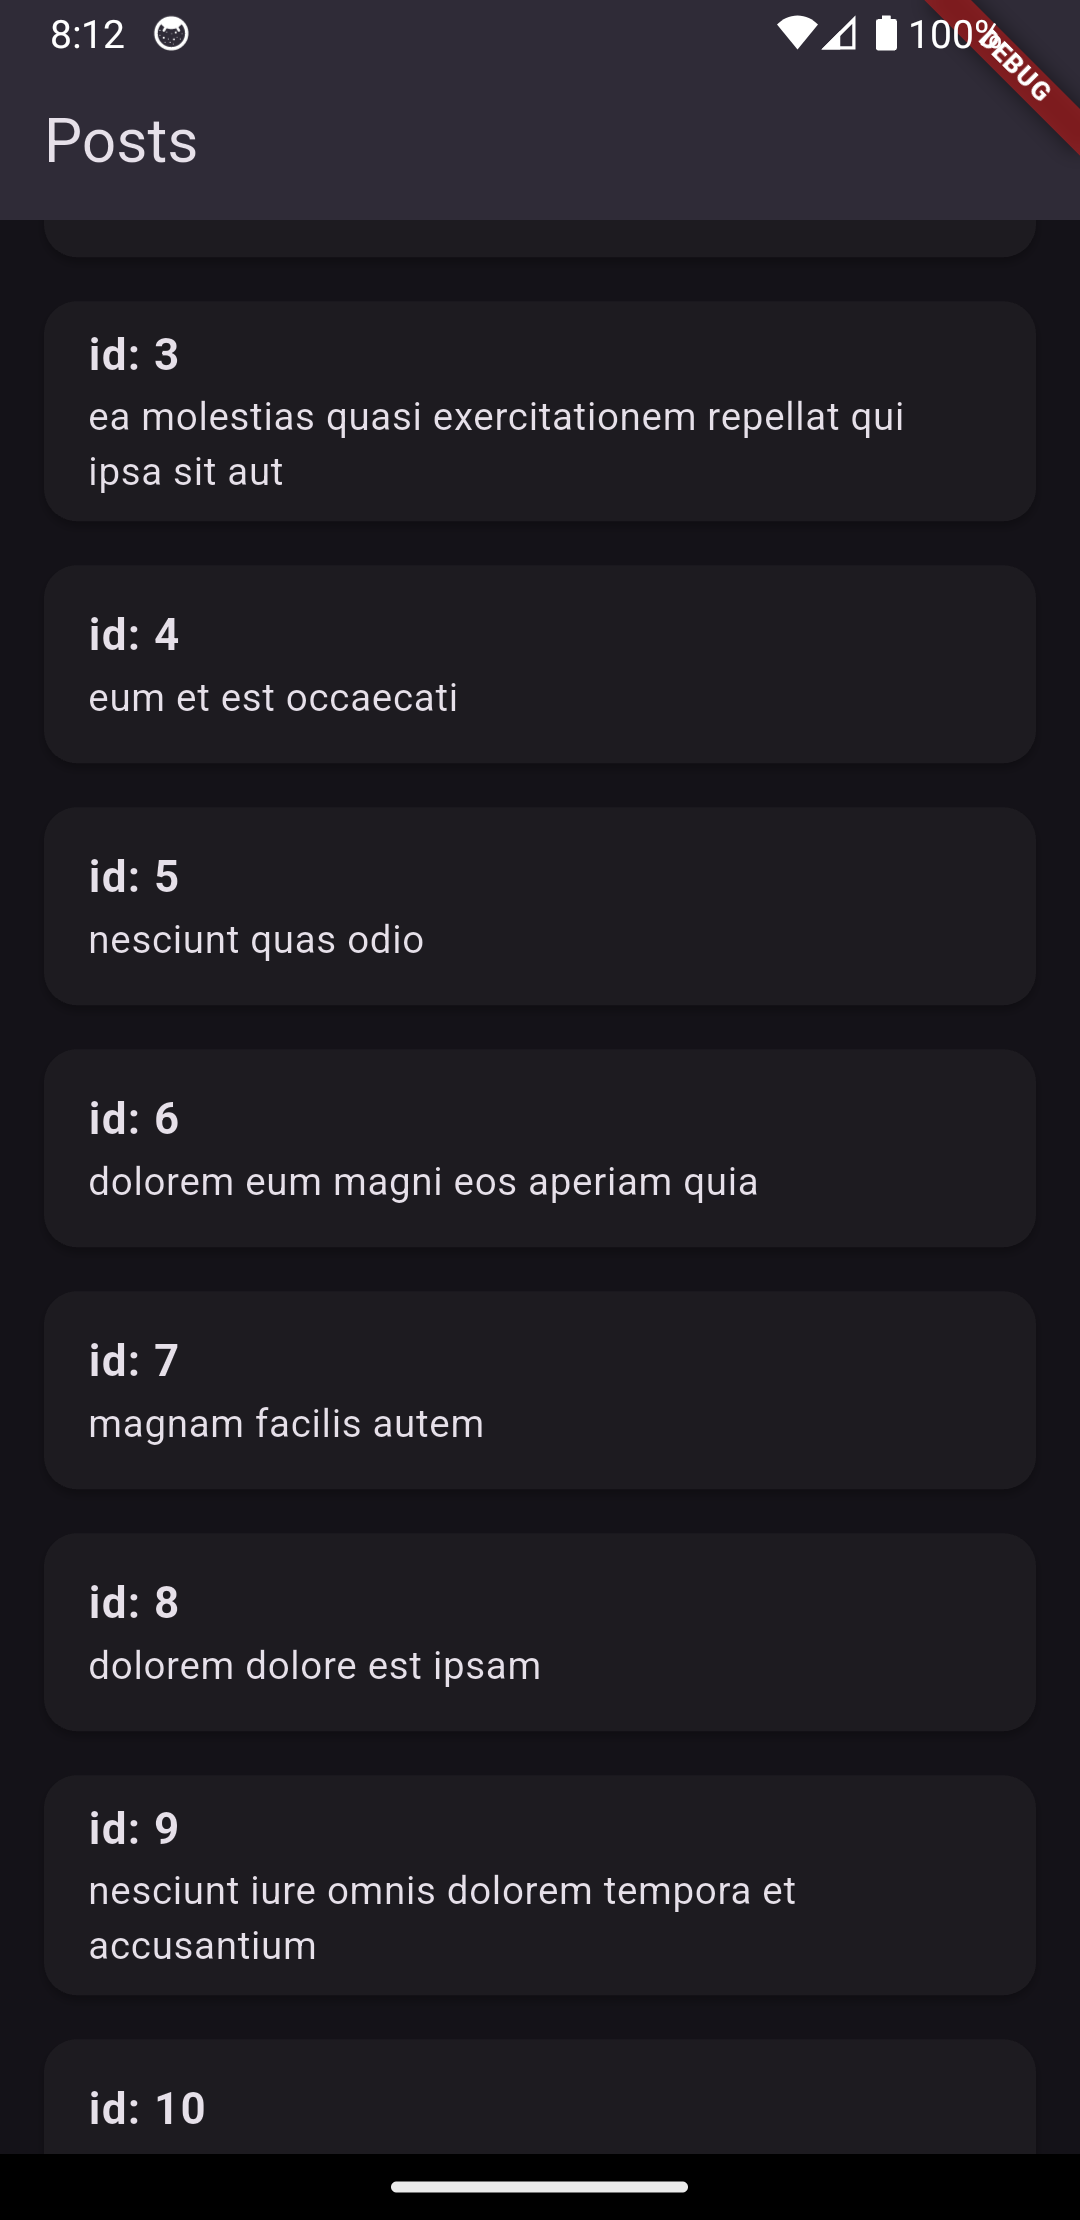
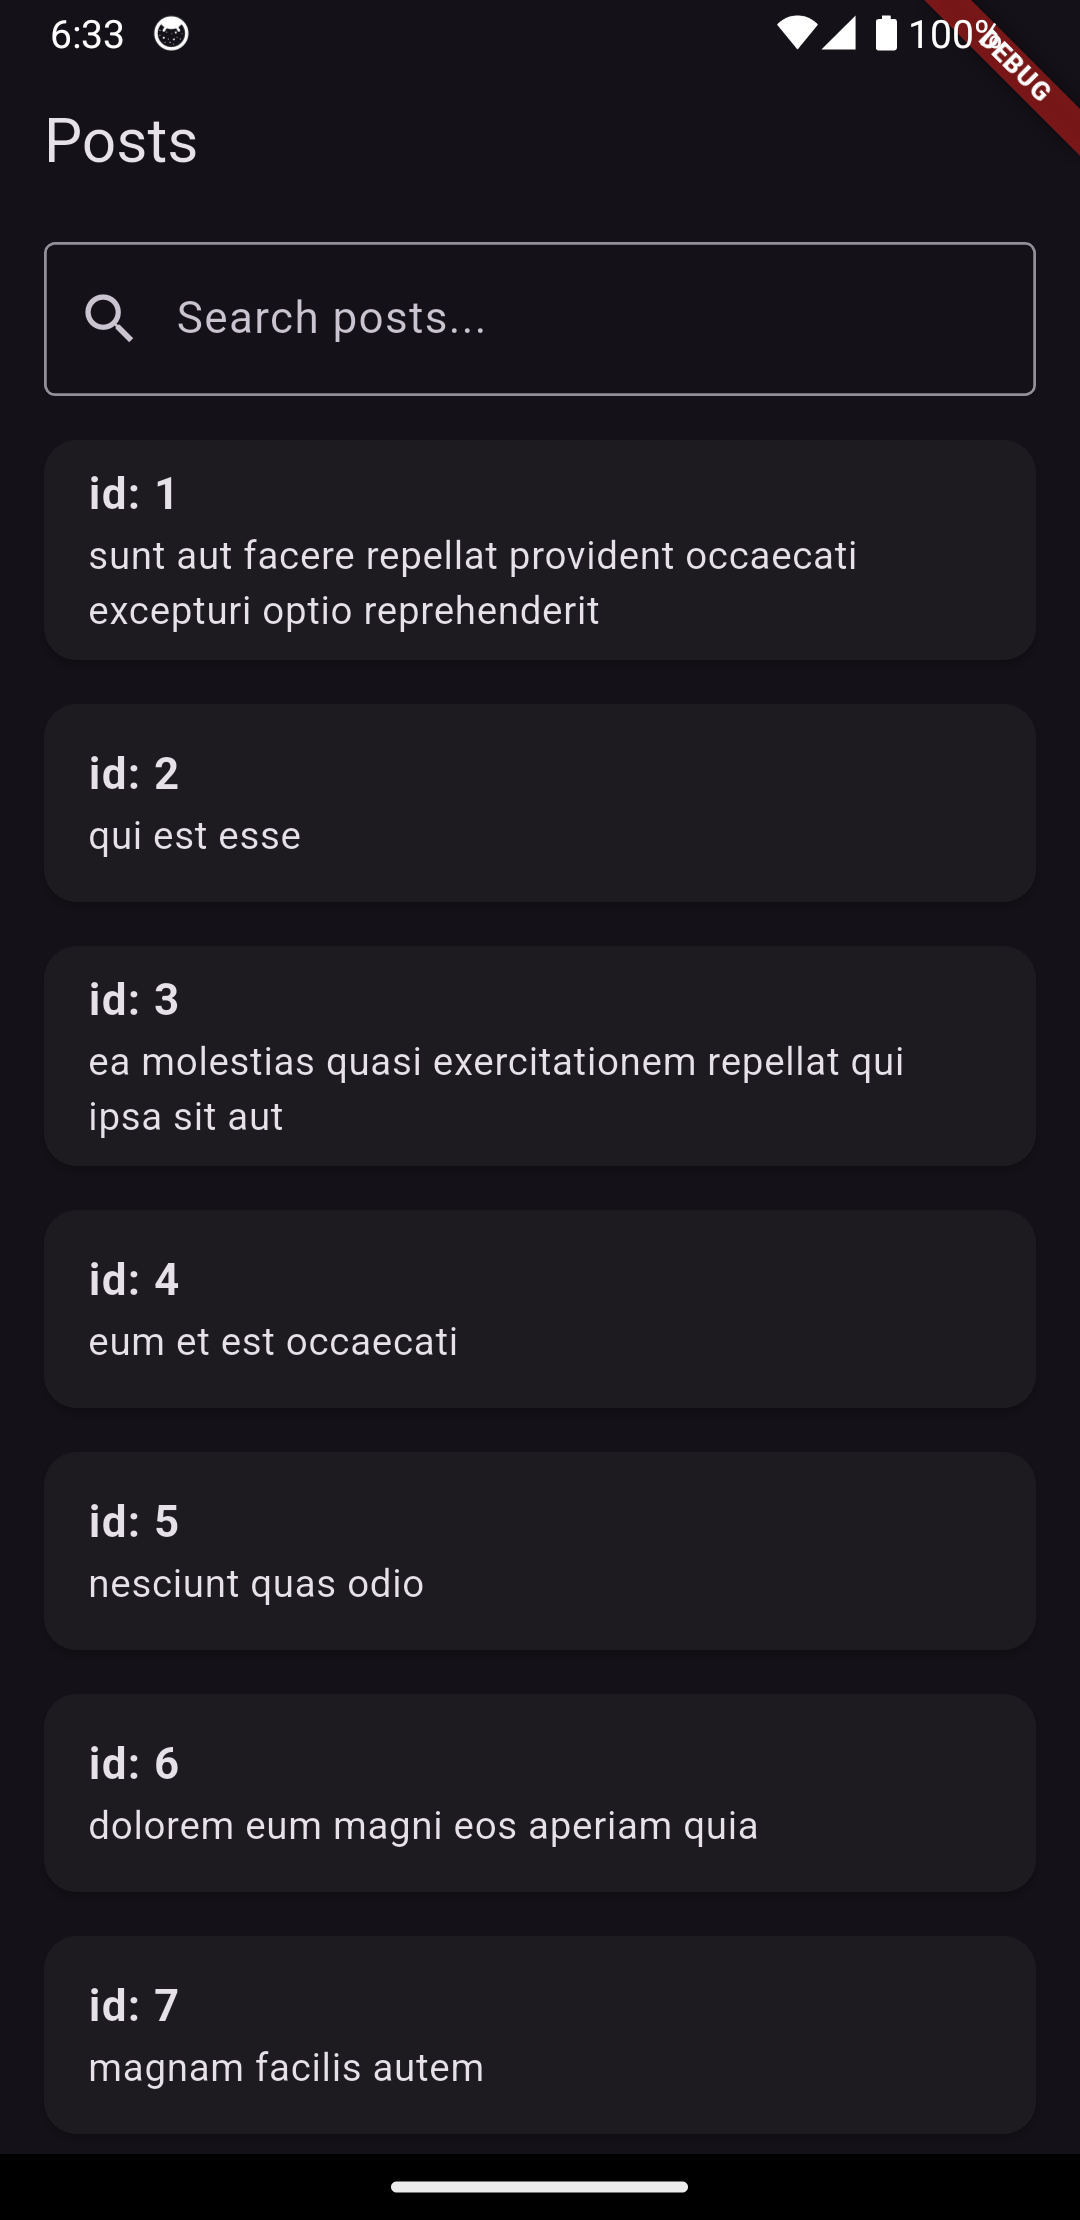
feat: implment search

diff --git a/lib/ui/homescreen.dart b/lib/ui/homescreen.dart
@@ -1,4 +1,4 @@
-import 'package:dev_assignment/state/PostBloc.dart';
+import 'package:dev_assignment/state/postbloc.dart';
 import 'package:dev_assignment/state/postevent.dart';
 import 'package:dev_assignment/state/poststate.dart';
 import 'package:dev_assignment/ui/widgets/post_item.dart';
@@ -15,65 +15,80 @@ class HomeScreen extends StatelessWidget {
       appBar: AppBar(title: Text('Posts')),
       body: BlocBuilder<PostBloc, PostState>(
         builder: (context, state) {
-          //Display based on State of List
-          switch (state.status) {
-            case PostStatus.loading:
-              return Center(child: CircularProgressIndicator());
-
-            case PostStatus.success:
-              return ListView.builder(
-                itemCount: state.posts.length,
-                itemBuilder: (context, index) {
-                  final post = state.posts[index];
-                  //Create list of posts
-                  //Pass Post router object to PostDetailScreen
-                  return PostItemWidget(
-                    onTapPost: () {
-                      context.pushNamed('post_details', extra: post);
-                    },
-                    postId: post.id,
-                    postTitle: post.title,
-                  );
-                },
-              );
-
-            case PostStatus.failure:
-              return Padding(
-                padding: const EdgeInsets.all(8.0),
-                child: Column(
-                  crossAxisAlignment: CrossAxisAlignment.center,
-                  mainAxisAlignment: MainAxisAlignment.center,
-                  children: [
-                    Text(
-                      'Failed to load posts: ${state.exception.toString()}',
-                      textAlign: TextAlign.center,
-                    ),
-                    SizedBox(height: 8),
-                    ElevatedButton(
-                      onPressed: () {
-                        //add Reload event
-                        context.read<PostBloc>().add(FetchPostsEvent());
-                      },
-                      style: ElevatedButton.styleFrom(
-                        backgroundColor: Colors.red,
-                        shape: RoundedRectangleBorder(
-                          borderRadius: BorderRadius.circular(8.0),
-                        ),
-                      ),
-                      child: Text(
-                        'retry',
-                        style: const TextStyle(color: Colors.white),
-                      ),
-                    )
-                  ],
+          return Column(
+            children: [
+              Padding(
+                padding: const EdgeInsets.fromLTRB(16, 8, 16, 8),
+                child: TextField(
+                  //disable Searchbar onLoading/onfailure
+                  enabled: state.status == PostStatus.success,
+                  decoration: InputDecoration(
+                    hintText: 'Search posts...',
+                    prefixIcon: Icon(Icons.search),
+                    border: OutlineInputBorder(),
+                  ),
+                  onChanged: (query) {
+                    context.read<PostBloc>().add(SearchPostsEvent(query));
+                  },
                 ),
-              );
+              ),
+              Expanded(
+                  child: switch (state.status) {
+                //Loading
+                PostStatus.loading => Center(child: CircularProgressIndicator()),
+                //Success
+                PostStatus.success => state.filteredPosts.isEmpty && state.searchQuery.isEmpty
+                    ? Center(child: Text('No posts found matching "${state.searchQuery}"'))
+                    :
+                    //Build ListView with filtered Posts
+                    ListView.builder(
+                        itemCount: state.filteredPosts.length,
+                        itemBuilder: (context, index) {
+                          final post = state.filteredPosts[index];
+                          //Pass Post router object to PostDetailScreen
+                          return PostItemWidget(
+                            onTapPost: () => context.pushNamed('post_details', extra: post),
+                            postId: post.id,
+                            postTitle: post.title,
+                          );
+                        },
+                      ),
+                //onFailure
+                PostStatus.failure => Padding(
+                    padding: const EdgeInsets.all(8.0),
+                    child: Column(
+                      crossAxisAlignment: CrossAxisAlignment.center,
+                      mainAxisAlignment: MainAxisAlignment.center,
+                      children: [
+                        Text(
+                          'Failed to load posts: ${state.exception.toString()}',
+                          textAlign: TextAlign.center,
+                        ),
+                        SizedBox(height: 8),
+                        ElevatedButton(
+                          //add Reload event
+                          onPressed: () => context.read<PostBloc>().add(FetchPostsEvent()),
+                          style: ElevatedButton.styleFrom(
+                            backgroundColor: Colors.red,
+                            shape: RoundedRectangleBorder(
+                              borderRadius: BorderRadius.circular(8.0),
+                            ),
+                          ),
+                          child: Text(
+                            'retry',
+                            style: const TextStyle(color: Colors.white),
+                          ),
+                        )
+                      ],
+                    ),
+                  ),
 
-            //Defalut == State.initial
-            //Do nothing Post is loaded in Main router
-            default:
-              return Center();
-          }
+                //Defalut == State.initial
+                //Do nothing Post is loaded in Main router
+                _ => Center()
+              }),
+            ],
+          );
         },
       ),
     );

diff --git a/lib/data/simple_cache_manager.dart b/lib/data/simple_cache_manager.dart
@@ -1,12 +1,11 @@
 import 'package:shared_preferences/shared_preferences.dart';
 
 //Cache Manager: uses sharedPreferences to cache string data
-//mainly (posts) 
+//mainly (posts)
 class CacheManager {
   final SharedPreferences _prefs;
   static const String _timestampKeySuffix = '_timestamp';
-  //make cache duration one day (consideration for making it variable)
-  static const Duration _expirationDuration = Duration(days: 1);
+  static const String _durationKeySuffix = '_duration';
 
   CacheManager(this._prefs);
 
@@ -15,13 +14,18 @@ class CacheManager {
     return CacheManager(prefs);
   }
 
-  Future<bool> saveData(String key, String data) async {
+  Future<bool> saveData(String key, String data, Duration expirationDuration) async {
     try {
       await _prefs.setString(key, data);
       //save time to denote when this data was cached
       await _prefs.setInt(
         key + _timestampKeySuffix,
         DateTime.now().millisecondsSinceEpoch,
+      );
+      //save the duration for the data
+      await _prefs.setInt(
+        key + _durationKeySuffix,
+        expirationDuration.inMilliseconds,
       );
       return true;
     } catch (e) {
@@ -43,34 +47,39 @@ class CacheManager {
     final data = _prefs.getString(key);
     if (data == null) return false;
 
-    // Check if timestamp exists
+    // Check if timestamp and duration exists
     final timestamp = _prefs.getInt(key + _timestampKeySuffix);
-    if (timestamp == null) return false;
+    final duration = _prefs.getInt(key + _durationKeySuffix);
+    if (timestamp == null || duration == null) return false;
 
-    //check cache is still valid or has expired
+    //check cache is still valid by comparing
+    //savedDate - currentDate to expirationDuration
     final savedDate = DateTime.fromMillisecondsSinceEpoch(timestamp);
     final currentDate = DateTime.now();
     final difference = currentDate.difference(savedDate);
+    final expirationDuration = Duration(milliseconds: duration);
 
-    return difference <= _expirationDuration;
+    return difference <= expirationDuration;
   }
 
-  //Refresh cache 
-  Future<bool> refreshData(String key, Future<String> Function() fetchNewData) async {
+  //Refresh cache
+  Future<bool> refreshData(
+      String key, Future<String> Function() fetchNewData, Duration expirationDuration) async {
     try {
       final newData = await fetchNewData();
-      return await saveData(key, newData);
+      return await saveData(key, newData, expirationDuration);
     } catch (e) {
       print('Error refreshing cached data: $e');
       return false;
     }
   }
 
-    //clear the cache
+  //clear the cache
   Future<bool> clearCache(String key) async {
     try {
       await _prefs.remove(key);
       await _prefs.remove(key + _timestampKeySuffix);
+      await _prefs.remove(key + _durationKeySuffix);
       return true;
     } catch (e) {
       print('Error clearing cached data: $e');

diff --git a/lib/state/PostBloc.dart b/lib/state/PostBloc.dart
@@ -3,12 +3,29 @@ import 'package:flutter_bloc/flutter_bloc.dart';
 import 'postevent.dart';
 import 'poststate.dart';
 
+//Block to handle state of posts
 class PostBloc extends Bloc<PostEvent, PostState> {
   final Repository repository;
 
   PostBloc({required this.repository}) : super(PostState()) {
     on<FetchPostsEvent>(_onFetchPosts);
     on<RefreshPostsEvent>(_onRefreshPosts);
+    on<SearchPostsEvent>(_onSearchPosts);
+  }
+
+  //search event to trigger new state emission
+  void _onSearchPosts(
+    SearchPostsEvent event,
+    Emitter<PostState> emit,
+  ) {
+    if (state.status == PostStatus.failure) return;
+    //emit copy of current state with new SearchPostEvent query
+    emit(PostState(
+      status: state.status,
+      searchQuery: event.query,
+      exception: state.exception,
+      posts: state.posts,
+    ));
   }
 
   Future<void> _onFetchPosts(

diff --git a/lib/state/poststate.dart b/lib/state/poststate.dart
@@ -5,14 +5,25 @@ enum PostStatus { initial, loading, success, failure }
 //Class representing the state of the main data to be called
 //primarily used inn the HomeScreen
 final class PostState {
-
   const PostState({
     this.status = PostStatus.initial,
     this.posts = const <Post>[],
+    this.searchQuery = '',
     this.exception = null,
   });
 
   final PostStatus status;
   final List<Post> posts;
+  final String searchQuery;
   final Exception? exception;
+
+  //Called in homeScreen to produce
+  //"posts" or filtered posts
+  List<Post> get filteredPosts {
+    if (status == PostStatus.failure) return []; //errorCheck
+    if (searchQuery.isEmpty) return posts;
+    return posts
+        .where((post) => post.title.toLowerCase().contains(searchQuery.toLowerCase()))
+        .toList();
+  }
 }

diff --git a/lib/state/postevent.dart b/lib/state/postevent.dart
@@ -1,6 +1,6 @@
 import 'package:equatable/equatable.dart';
 
-//Events to b e sent to PostBloc to update State
+//Events to be sent to PostBloc to trigger State update
 abstract class PostEvent extends Equatable {
   const PostEvent();
 
@@ -8,5 +8,11 @@ abstract class PostEvent extends Equatable {
   List<Object> get props => [];
 }
 
-class FetchPostsEvent  extends PostEvent{}
-class RefreshPostsEvent extends PostEvent{}
+class FetchPostsEvent extends PostEvent {}
+
+class RefreshPostsEvent extends PostEvent {}
+
+class SearchPostsEvent extends PostEvent {
+  final String query;
+  const SearchPostsEvent(this.query);
+}

diff --git a/lib/data/repository.dart b/lib/data/repository.dart
@@ -38,7 +38,7 @@ class Repository {
       );
 
       if (response.statusCode == 200) {
-        await _cacheManager.saveData(POSTS_CACHE_KEY, response.body);
+        await _cacheManager.saveData(POSTS_CACHE_KEY, response.body,Duration(days: 1));
         onSuccess(response.body);
       } else {
         //onFailure setState
@@ -72,7 +72,6 @@ class Repository {
 
 
 //Manually referesh post
-
 // Future<void> refreshPosts() async {
 //     _state = PostState(status: PostStatus.loading);
 

diff --git a/lib/main.dart b/lib/main.dart
@@ -1,5 +1,5 @@
 import 'package:dev_assignment/data/repository.dart';
-import 'package:dev_assignment/state/PostBloc.dart';
+import 'package:dev_assignment/state/postbloc.dart';
 import 'package:dev_assignment/state/postevent.dart';
 import 'package:dev_assignment/ui/homescreen.dart';
 import 'package:dev_assignment/ui/post_detail_screen.dart';

diff --git a/lib/ui/post_detail_screen.dart b/lib/ui/post_detail_screen.dart
@@ -1,5 +1,4 @@
 import 'package:flutter/material.dart';
-import 'package:go_router/go_router.dart';
 
 import '../data/entity/post.dart';
 

diff --git a/README.md b/README.md
@@ -11,8 +11,6 @@ Support for Android and IOS only.
 4. [Development Setup](#development-setup)
 5. [License](#license)
 
-- Pending Features : Searching.
-
 ## Screenshots
 
 <img src = "screenshots/homescreen.png" width = "220" height = "471"/> &nbsp; <img src = "screenshots/post_detail_screen.png" width = "220" height = "471"/>  &nbsp; <img src = "screenshots/homescreen_error.png" width = "220" height = "471"/>
@@ -35,18 +33,16 @@ Support for Android and IOS only.
 - Calls [jsonPlaceholder: posts](https://jsonplaceholder.typicode.com/posts) and displays it as a list.
 - Navigates to a second page with post details.
 - Cached data, providing offline support.
+- Post searching feature.
 
 ## Development Setup
 
-Make sure you have downloaded and set up Flutter and Android Studio correctly before you begin working on this project. Ensure that you have the Flutter SDK installed and the necessary Flutter dependencies are set up. Here is the official Flutter documentation to guide you through the installation and setup process:
+Make sure you have downloaded and set up Flutter and Android Studio correctly before you begin working on this project by following the official guide below.
 
 - [Flutter Installation](https://flutter.dev/docs/get-started/install)
-
-Additionally, ensure that Android Studio is configured with the Flutter and Dart plugins. This will allow you to develop, build, and test Flutter applications effectively. You can follow the guide below to set up Android Studio for Flutter:
-
 - [Android Studio Setup for Flutter](https://flutter.dev/docs/get-started/editor?tab=androidstudio)
 
-After you are done with the above, you can either download the codebase or import it using your IDE. Wait for it to download all dependencies, then you are ready to run the app.
+After you are done with the above, you can either download the codebase or import it using your IDE using the [github plugin](https://github.com/topics/plugin) for your preferred IDE. Wait for the project download all dependencies, then you are ready to run the app.
 
 ## License
 
